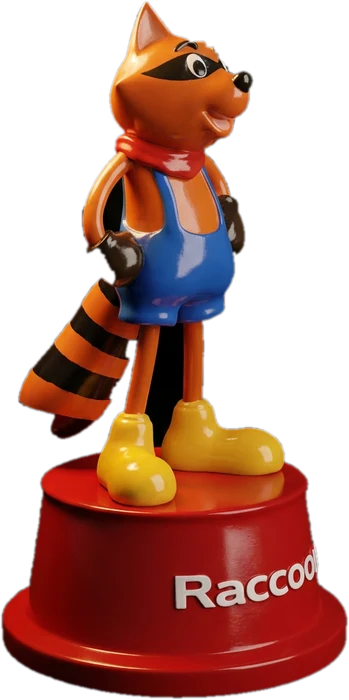
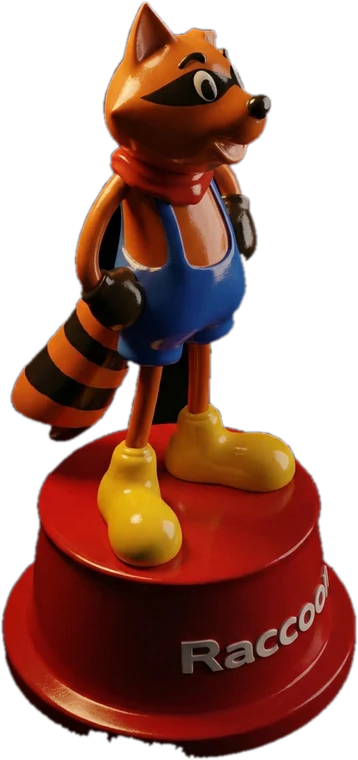
Archivio: il procione rifatto in prospettiva, visto dall'alto
Il pupazzo ora è fotografato come sta sul tavolo, davanti e in basso:
la base rotonda si vede da sopra. È già in ombra nella foto, quindi
viene scurito solo un filo.

Claude-Session: https://claude.ai/code/session_0132maytbjQPjkvku1fYAZ7S

diff --git a/css/archivio.css b/css/archivio.css
@@ -258,8 +258,14 @@
    Il pupazzo di Mr. Raccoon (Firefly, 10 ottobre 2026), appoggiato in primo
    piano nell'angolo in basso a sinistra, davanti al monitor. Giovanni: "si
    deve vedere e non vedere". Quindi:
+   - IN PROSPETTIVA: la prima versione era fotografata all'altezza degli
+     occhi, e nella scena sembrava incollato ("chiaramente non e' in
+     prospettiva"). Sta sul tavolo davanti e in basso, quindi lo si vede
+     dall'alto: la base e' un'ellisse vista da sopra. Rifatto cosi' su
+     Firefly il 10 ottobre 2026.
    - IN OMBRA: la lampada sta in alto a sinistra e lui e' davanti, in basso,
-     fuori dal suo cerchio: scurito e un filo spento di colori.
+     fuori dal suo cerchio. L'ombra c'e' gia' nella foto; qui solo un filo
+     piu' scuro.
    - UN PO' SFOCATO, come un oggetto vicinissimo alla macchina fotografica,
      mentre il fuoco e' sullo schermo.
    - SI SOVRAPPONE DECISO all'angolo della cornice (niente bordi che si
@@ -270,5 +276,5 @@
    mettono nello stesso punto rispetto al PC. */
 .arch-procione{position:absolute;z-index:8;pointer-events:none;
   left:-12%;bottom:-22%;height:52%;width:auto;
-  filter:brightness(.42) saturate(.7) contrast(.95) blur(.6px) drop-shadow(4px 8px 10px rgba(0,0,0,.6))}
+  filter:brightness(.7) saturate(.85) blur(.5px) drop-shadow(4px 8px 10px rgba(0,0,0,.6))}
 @media (min-aspect-ratio:1/1){ .arch-procione{left:-10%;bottom:-16%;height:48%} }

diff --git a/sw.js b/sw.js
@@ -13,7 +13,7 @@
 // di servire quelli di ieri. Alzare questo e non quello e' normale; il
 // contrario no.
 const VERSIONE = '1.0.0';
-const CACHE = 'inkflow-static-v428';
+const CACHE = 'inkflow-static-v429';
 const SHARE_CACHE = 'inkflow-share-inbox';
 // Cache dei file .cbz/.cbr scaricati da Drive: gestita da js/drive.js, va
 // PRESERVATA tra i deploy (altrimenti a ogni aggiornamento riscaricheresti
